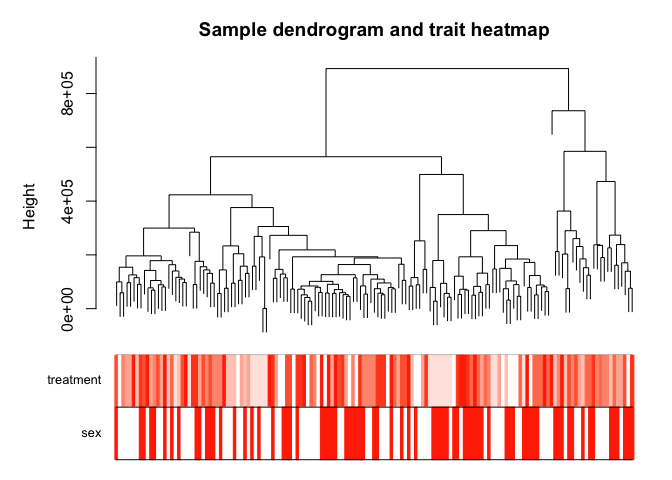
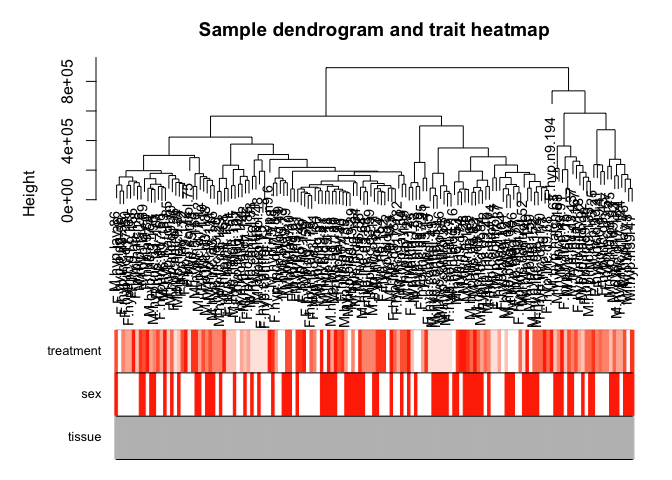
multiple wgcna plots

diff --git a/analysis/08_wgcna.md b/analysis/08_wgcna.md
@@ -11,6 +11,16 @@ comparison of sample cluster to sample meta data.
 
 ![](../figures/wgcna/wgcna-1.png)
 
+Females
+-------
+
+![](../figures/wgcna/wgcna-female-1.png)
+
+Males
+-----
+
+![](../figures/wgcna/wgcna-male-1.png)
+
 hypothalamus
 ------------
 
@@ -18,8 +28,6 @@ hypothalamus
 
 pituitary
 ---------
-
-![](../figures/wgcna/wgcna-pit-1.png)
 
 gonads
 ------
